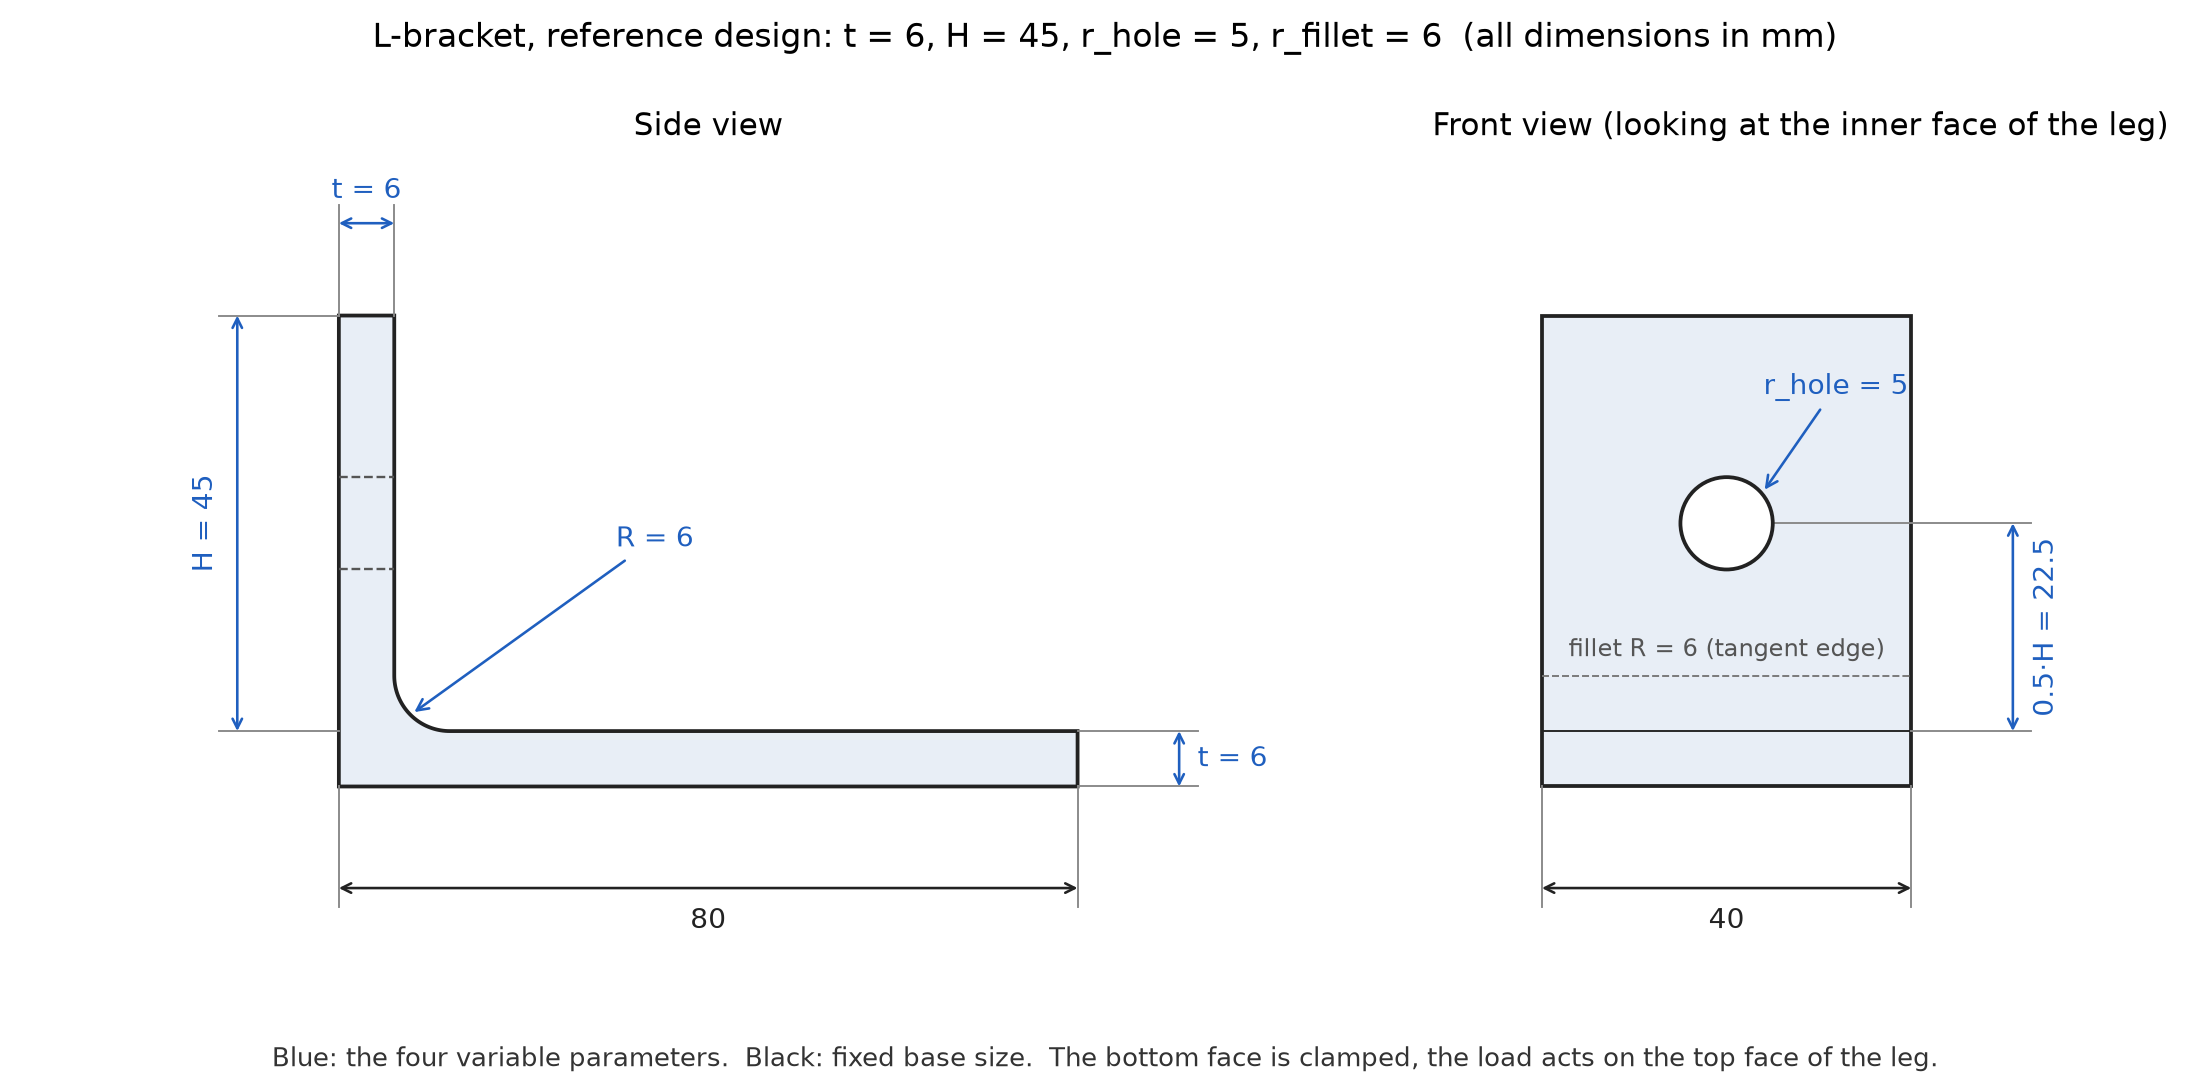
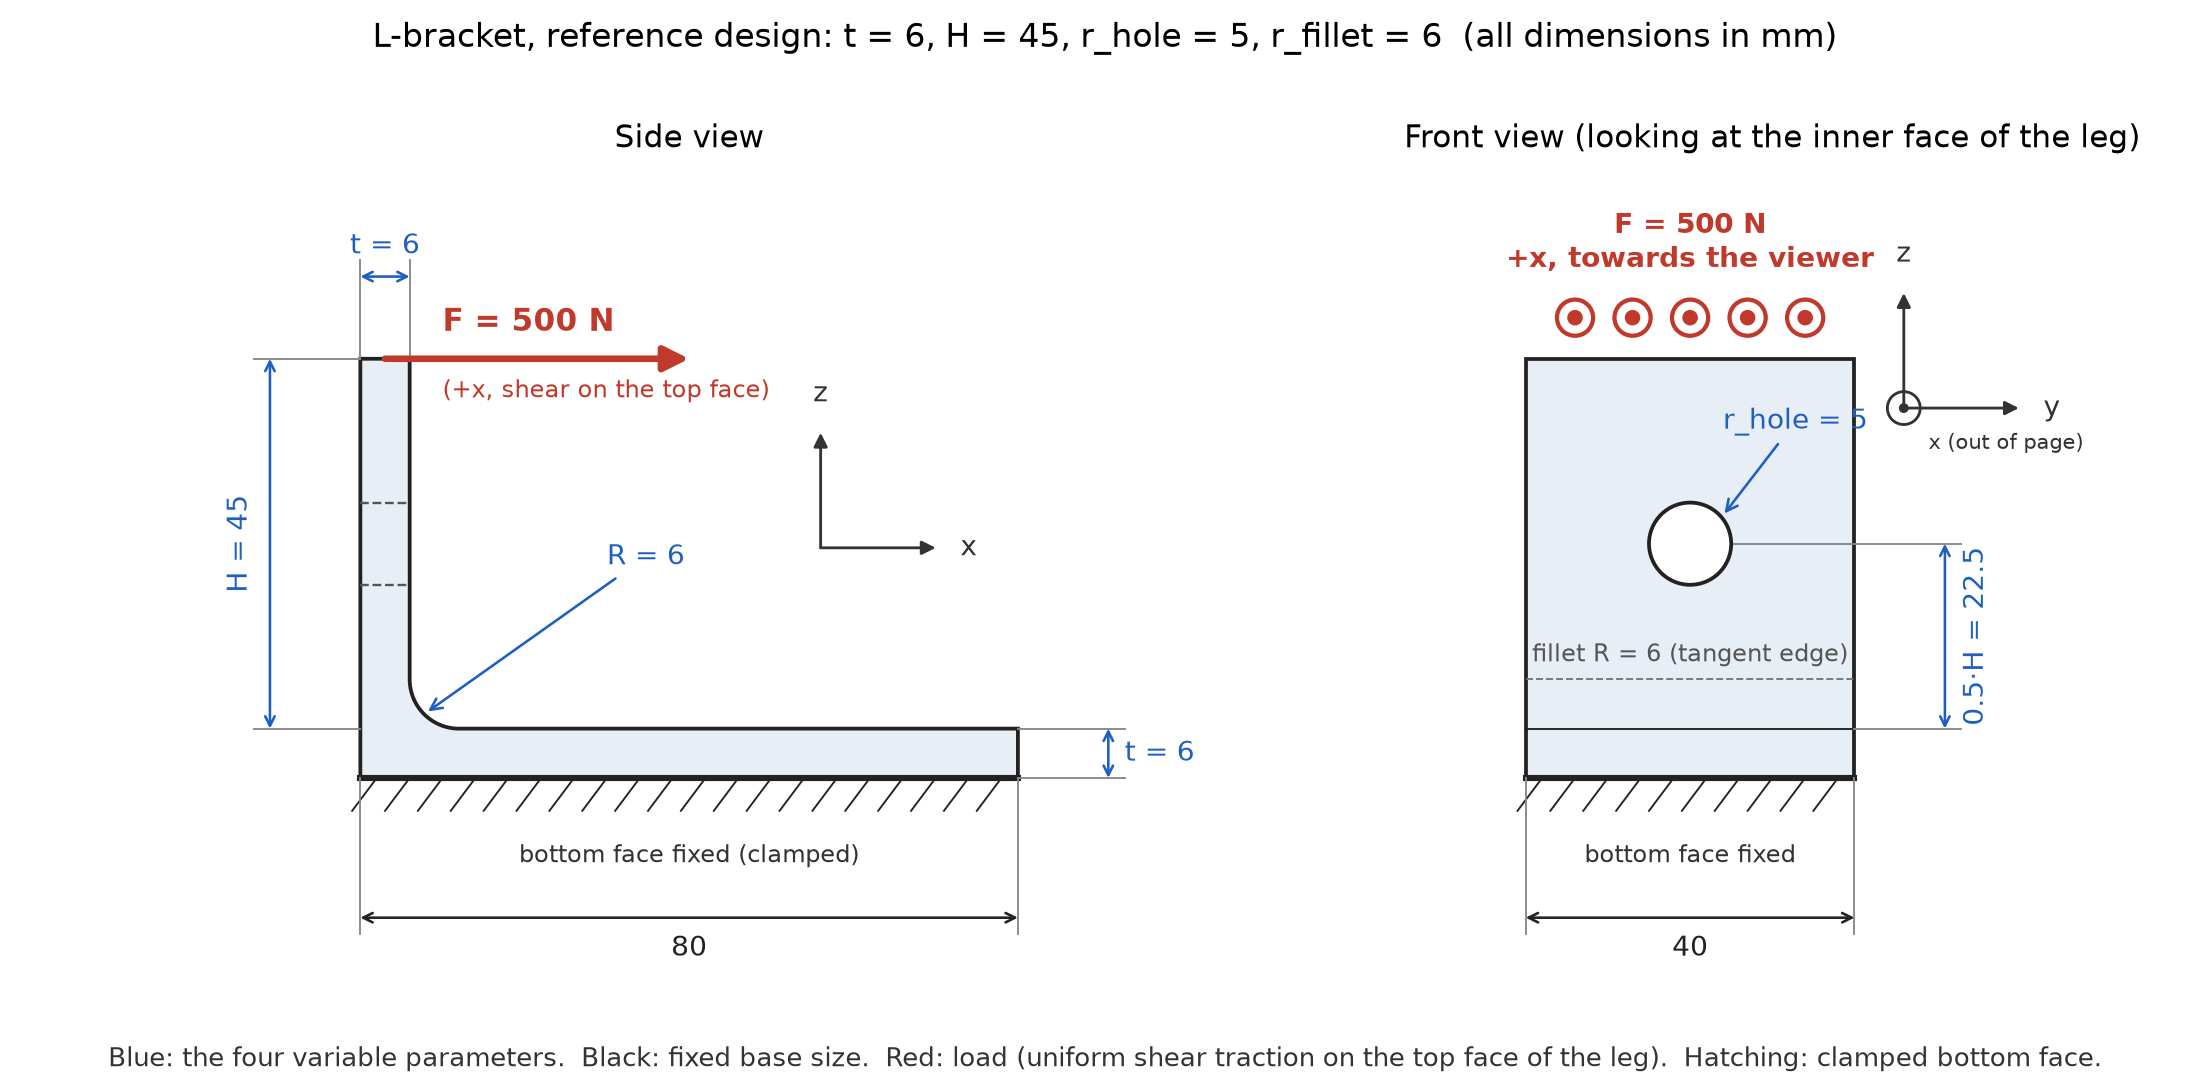
Add dimensioned geometry drawing with load direction, stress contour and mesh figure

diff --git a/scripts/plot_geometry.py b/scripts/plot_geometry.py
@@ -7,6 +7,7 @@ import matplotlib
 matplotlib.use("Agg")
 import matplotlib.pyplot as plt
 
+from bracket.fea import LOAD_N
 from bracket.geometry import HOLE_FRAC, L, W, is_valid
 
 ap = argparse.ArgumentParser()
@@ -23,7 +24,7 @@ if not is_valid(p):
 t, H, rh, rf = a.t, a.H, a.r_hole, a.r_fillet
 zc = t + HOLE_FRAC * H                      # height of the hole centre above the bottom face
 
-VAR, FIX, GREY, FS = "#1f5fbf", "#222222", "#888888", 12
+VAR, FIX, GREY, RED, FS = "#1f5fbf", "#222222", "#888888", "#c0392b", 12
 ARROW = dict(arrowstyle="<->", lw=1.1, shrinkA=0, shrinkB=0)
 
 
@@ -44,8 +45,21 @@ def ext(ax, x0, y0, x1, y1):
     ax.plot([x0, x1], [y0, y1], color=GREY, lw=0.8)
 
 
-xl1, xl2 = (-24, L + 24), (-8, W + 24)
-yl = (-24, t + H + 18)
+def hatch(ax, x0, x1):
+    """Clamped support: thick line with hatching below it."""
+    ax.plot([x0, x1], [0, 0], color=FIX, lw=2.6)
+    for x in np.arange(x0 + 2, x1 + 1, 4):
+        ax.plot([x, x - 3], [0, -4], color=FIX, lw=0.8)
+
+
+def arrow(ax, x0, y0, x1, y1, color, lw=1.2, scale=12):
+    ax.annotate("", xy=(x1, y1), xytext=(x0, y0),
+                arrowprops=dict(arrowstyle="-|>", color=color, lw=lw, mutation_scale=scale,
+                                shrinkA=0, shrinkB=0))
+
+
+xl1, xl2 = (-24, L + 24), (-8, W + 28)
+yl = (-28, t + H + 24)
 fig, axs = plt.subplots(1, 2, figsize=(13, 6.4),
                         gridspec_kw=dict(width_ratios=[xl1[1] - xl1[0], xl2[1] - xl2[0]]))
 
@@ -57,8 +71,11 @@ outline = np.vstack([[0, 0], [L, 0], [L, t], arc, [t, t + H], [0, t + H], [0, 0]
 ax.fill(outline[:, 0], outline[:, 1], facecolor="#e8eef6", edgecolor=FIX, lw=1.6)
 for z in (zc - rh, zc + rh):                # hidden edges of the hole
     ax.plot([0, t], [z, z], "--", color="#555555", lw=1)
-ext(ax, 0, 0, 0, -13); ext(ax, L, 0, L, -13)
-hdim(ax, 0, L, -11, f"{L:g}", FIX, below=True)
+hatch(ax, 0, L)
+ax.text(L / 2, -9.5, "bottom face fixed (clamped)", ha="center", va="center",
+        fontsize=10, color="#333333")
+ext(ax, 0, 0, 0, -19); ext(ax, L, 0, L, -19)
+hdim(ax, 0, L, -17, f"{L:g}", FIX, below=True)
 ext(ax, 0, t, -13, t); ext(ax, 0, t + H, -13, t + H)
 vdim(ax, -11, t, t + H, f"H = {H:g}", VAR, side="left")
 ext(ax, 0, t + H, 0, t + H + 12); ext(ax, t, t + H, t, t + H + 12)
@@ -69,6 +86,15 @@ ang = np.radians(225)
 ax.annotate(f"R = {rf:g}", xy=(t + rf + rf * np.cos(ang), t + rf + rf * np.sin(ang)),
             xytext=(t + rf + 18, t + rf + 14), color=VAR, fontsize=FS,
             arrowprops=dict(arrowstyle="->", color=VAR, lw=1.1))
+arrow(ax, t / 2, t + H, t + 34, t + H, RED, lw=2.8, scale=22)       # load: +x, on the top face
+ax.text(t + 4, t + H + 2.5, f"F = {LOAD_N:g} N", color=RED, fontsize=13, fontweight="bold",
+        ha="left", va="bottom")
+ax.text(t + 4, t + H - 2.5, "(+x, shear on the top face)", color=RED, fontsize=10,
+        ha="left", va="top")
+ox, oz = L - 24, t + 22                                              # axis triad
+arrow(ax, ox, oz, ox + 14, oz, "#333333"); arrow(ax, ox, oz, ox, oz + 14, "#333333")
+ax.text(ox + 17, oz, "x", ha="left", va="center", fontsize=12, color="#333333")
+ax.text(ox, oz + 17, "z", ha="center", va="bottom", fontsize=12, color="#333333")
 ax.set_title("Side view", fontsize=13)
 ax.set_xlim(*xl1); ax.set_ylim(*yl); ax.set_aspect("equal"); ax.axis("off")
 
@@ -78,8 +104,11 @@ ax.fill([0, W, W, 0], [0, 0, t + H, t + H], facecolor="#e8eef6", edgecolor=FIX, 
 ax.plot([0, W], [t, t], color=FIX, lw=0.8)                       # top of the base plate
 ax.plot([0, W], [t + rf, t + rf], "--", color="#777777", lw=0.8)  # tangent edge of the fillet
 ax.add_patch(plt.Circle((W / 2, zc), rh, facecolor="white", edgecolor=FIX, lw=1.6, zorder=3))
-ext(ax, 0, 0, 0, -13); ext(ax, W, 0, W, -13)
-hdim(ax, 0, W, -11, f"{W:g}", FIX, below=True)
+hatch(ax, 0, W)
+ax.text(W / 2, -9.5, "bottom face fixed", ha="center", va="center", fontsize=10,
+        color="#333333")
+ext(ax, 0, 0, 0, -19); ext(ax, W, 0, W, -19)
+hdim(ax, 0, W, -17, f"{W:g}", FIX, below=True)
 a40 = np.radians(40)
 ax.annotate(f"r_hole = {rh:g}", xy=(W / 2 + rh * np.cos(a40), zc + rh * np.sin(a40)),
             xytext=(W / 2 + 4, zc + rh + 9), color=VAR, fontsize=FS, zorder=4,
@@ -88,13 +117,25 @@ ext(ax, W, t, W + 13, t); ext(ax, W / 2 + rh, zc, W + 13, zc)
 vdim(ax, W + 11, t, zc, f"{HOLE_FRAC:g}·H = {HOLE_FRAC * H:g}", VAR, side="right")
 ax.text(W / 2, t + rf + 1.5, f"fillet R = {rf:g} (tangent edge)", ha="center", va="bottom",
         fontsize=10, color="#555555")
+for yy in (6, 13, 20, 27, 34):                                       # load points towards the viewer
+    ax.add_patch(plt.Circle((yy, t + H + 5), 2.2, fill=False, edgecolor=RED, lw=1.8))
+    ax.add_patch(plt.Circle((yy, t + H + 5), 0.8, facecolor=RED, edgecolor=RED))
+ax.text(W / 2, t + H + 10, f"F = {LOAD_N:g} N\n+x, towards the viewer", color=RED, fontsize=12,
+        fontweight="bold", ha="center", va="bottom")
+ox, oz = W + 6, t + H - 6                                           # axis triad
+arrow(ax, ox, oz, ox + 14, oz, "#333333"); arrow(ax, ox, oz, ox, oz + 14, "#333333")
+ax.add_patch(plt.Circle((ox, oz), 2.0, fill=False, edgecolor="#333333", lw=1.2, zorder=5))
+ax.add_patch(plt.Circle((ox, oz), 0.6, facecolor="#333333", zorder=5))
+ax.text(ox + 17, oz, "y", ha="left", va="center", fontsize=12, color="#333333")
+ax.text(ox, oz + 17, "z", ha="center", va="bottom", fontsize=12, color="#333333")
+ax.text(ox + 3, oz - 3, "x (out of page)", ha="left", va="top", fontsize=9, color="#333333")
 ax.set_title("Front view (looking at the inner face of the leg)", fontsize=13)
 ax.set_xlim(*xl2); ax.set_ylim(*yl); ax.set_aspect("equal"); ax.axis("off")
 
 fig.suptitle(f"L-bracket, reference design: t = {t:g}, H = {H:g}, r_hole = {rh:g}, "
              f"r_fillet = {rf:g}  (all dimensions in mm)", fontsize=14)
 fig.text(0.5, 0.02, "Blue: the four variable parameters.  Black: fixed base size.  "
-         "The bottom face is clamped, the load acts on the top face of the leg.",
+         "Red: load (uniform shear traction on the top face of the leg).  Hatching: clamped bottom face.",
          ha="center", fontsize=11, color="#333333")
 fig.tight_layout(rect=(0, 0.05, 1, 0.94))
 fig.savefig(a.out, dpi=170)

diff --git a/README.md b/README.md
@@ -73,7 +73,7 @@ Geometries that cannot be built (hole overlapping the fillet or the leg top, ove
 
 ![Geometry](results/geometry.png)
 
-*Dimensioned views of the reference design (all dimensions in mm). Blue marks the four variable parameters; the base size is fixed.*
+*Dimensioned views of the reference design (all dimensions in mm). Blue marks the four variable parameters; the base size is fixed. The red arrow shows the load (500 N in +x, a uniform shear traction on the top face of the leg), and the hatching shows the clamped bottom face.*
 
 ## Method notes
 
